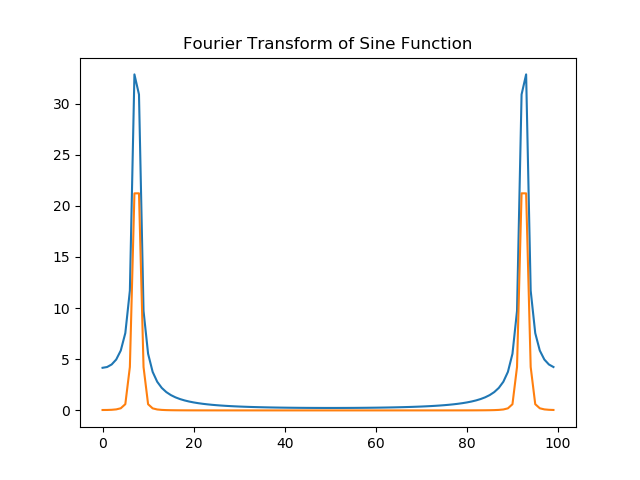
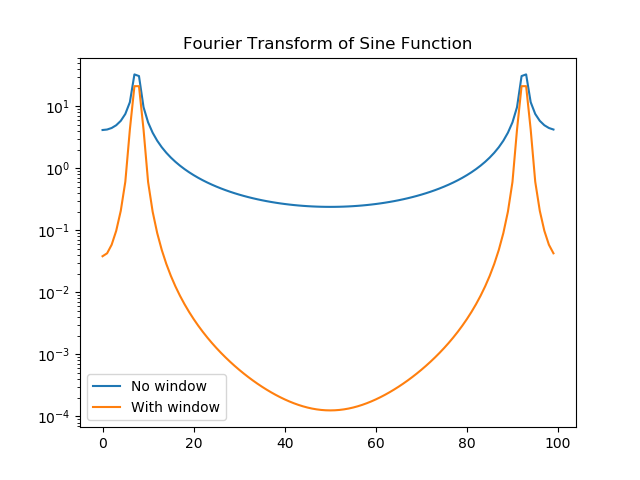
Finished Q5, done the assignment

diff --git a/A4/A4Q5.py b/A4/A4Q5.py
@@ -31,7 +31,7 @@ f = np.sin(2*np.pi*k*xp/Np) #Define our sine wave
 #Calculate our analytic DFT and the numpy fft of our sine wave, and plot the results
 kp, f_An = sinFT_analytic(xp, k, Np)
 f_Disc = np.fft.fft(f)
-"""
+
 plt.figure()
 plt.plot(xp, f)
 plt.title('Sine Function')
@@ -45,7 +45,7 @@ plt.title('Fourier Transform of Sine Function')
 plt.figure()
 plt.plot(kp, abs(f_Disc)-abs(f_An),'*')
 plt.title('Residuals')
-"""
+
 print('The standard deviation between analytic and FFT values is ', f'{np.std(abs(f_Disc)-abs(f_An)):.4}')
 """
 Output: The standard deviation between analytic and FFT values is  6.021e-14
@@ -70,6 +70,8 @@ f_Disc_window = np.fft.fft(f*window)
 plt.figure()
 plt.plot(kp, abs(f_Disc), label='No window')
 plt.plot(kp, abs(f_Disc_window), label='With window')
+plt.legend()
+plt.yscale('log')
 plt.title('Fourier Transform of Sine Function')
 
 """
@@ -77,3 +79,59 @@ We can see from the plot (A4Q5d_plot_FT) that the FT after multiplying by the wi
 narrower peak at both k and N-k than the FT without the window function. The tradeoff is that the
 magnitude of the peak is reduced when we multiply by the window function.
 """
+
+"""
+Part e) Show that the FT of the window is [N/2 N/4 0 0 ... 0 N/4].
+Use this to show that you can get the windowed FT by appropriate combos of each point in the 
+unwindowed FT and its immediate neighbours.
+"""
+
+window_FT = np.fft.fft(window)
+given_windowFT = np.zeros(Np)
+given_windowFT[0] = Np/2
+given_windowFT[1] = -Np/4
+given_windowFT[-1] = -Np/4
+
+print('The standard deviation between given and FFT values is ', f'{np.std(abs(window_FT)-abs(given_windowFT)):.4}')
+
+plt.figure()
+plt.plot(kp, window_FT, label='FFT of Window')
+plt.plot(kp, given_windowFT, ':', label = 'Given FT of Window')
+plt.legend()
+plt.title('Fourier Transform of Window Function')
+
+"""
+Output: The standard deviation between given and FFT values is  7.387e-16
+See A4Q5e_plot_FTofWindow.png
+When we flip the sign of the Np/4 entries, the FFT of the window agrees to machine precision with
+the array we are given and comparing to.
+This means the FFT of the window function is N/2 if k=0, -N/4 if k = +/-1, else 0. Since the multiplication 
+of the window function by the sine wave is a convolution in Fourier space and the window function in
+Fourier space is equal to the sum of these 3 delta functions at k=0, k=+/-1, this operation is just
+going to select out 3 values for a given k. All other entries will be zero
+"""
+
+def windowed_FFT(F, N):
+    terms = np.empty(N)
+    for i in range(N):
+        terms[i] = F[i]/2 - F[(i-1)%N]/4 - F[(i+1)%N]/4
+    return terms
+
+f_Disc_FixedWindow = windowed_FFT(f_Disc, Np)
+print('The standard deviation between given and FFT values is ', f'{np.std(abs(f_Disc_window)-abs(f_Disc_FixedWindow)):.4}')
+
+plt.figure()
+plt.plot(kp, abs(f_Disc), label='FT of Sine')
+plt.plot(kp, abs(f_Disc_window), label='FT of Sine*Window')
+plt.plot(kp, abs(f_Disc_FixedWindow), ':', label='FT of Sine*Window using delta functions')
+plt.legend()
+plt.yscale('log')
+plt.title('Fourier Transform of Sine Function')
+
+"""
+Output: The standard deviation between given and FFT values is  8.325e-16
+See A4Q5e_plot_windowedSineFT.png
+This agrees to machine precision with the FT of Sine*Window from Part d). This agreement confirms
+that the method given in this question is equivalent to taking the windowed FT.
+"""
+
